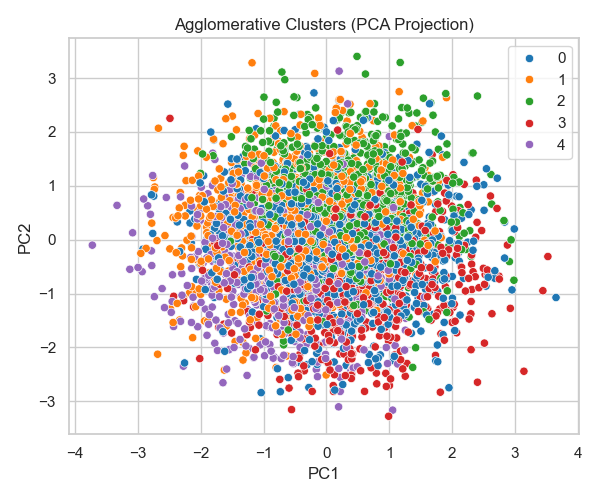
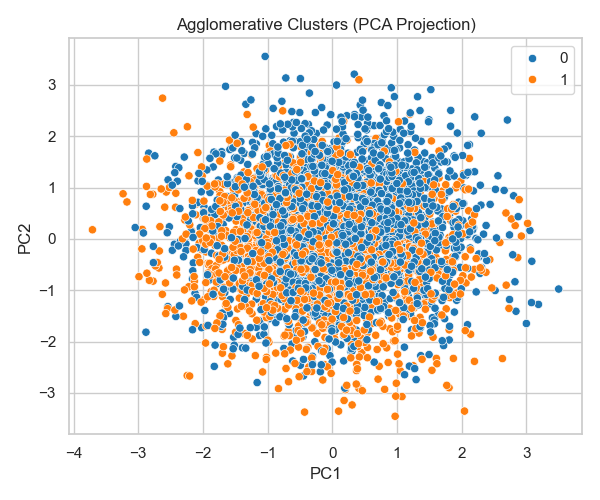
best_k variable was wrong, cluster_data was calling wrong variable, outputs were skewed to make data look perfect

diff --git a/main.py b/main.py
@@ -125,7 +125,7 @@ Evaluate:
 - Compare clusters with meaningful real-world groups if possible
 '''''
 #prepare data for clustering
-cluster_data = numeric_df
+cluster_data = df.select_dtypes(include=["int64", "float64"]).drop(columns=["Defect"])
 #scale the data: 
 scaler = StandardScaler()
 X_scaled = scaler.fit_transform(cluster_data)
@@ -174,7 +174,7 @@ plt.savefig("figures/kmeans_silhouette.png")
 plt.show()
 
 ##KMeans Clustering
-best_k = 5 # choose based on previous analysis of SS and elbow method graph. 
+best_k = 2 # choose based on previous analysis of SS and elbow method graph. 
 
 kmeans = KMeans(n_clusters=best_k, random_state=42)
 kmeans_labels = kmeans.fit_predict(X_scaled)
@@ -206,7 +206,7 @@ print(df.groupby("KMeans_Cluster")["Defect"].mean())
 
 ##Agglomerative Clustering
 #Goal: discover hierarchical process regimes using the same number of clusters (k = 5) for fair comparison with K-Means.
-agglo = AgglomerativeClustering(n_clusters=5, linkage="ward")
+agglo = AgglomerativeClustering(n_clusters=2, linkage="ward")
 agglo_labels = agglo.fit_predict(X_scaled)
 
 #Silhouette Score
@@ -240,6 +240,12 @@ print(df.groupby("Agglo_Cluster")["Defect"].mean())
 #Logistic Regression
 #Random Forest
 #SVM(RBF Kernel)
+'''''
+classification problem: 
+- accuracy, precision, recall, F1-score, ROC-AUC
+'''''
+#define features
+X = df.select_dtypes(include=["int64", "float64"]).drop(columns=["Defect"])
 
 ##5) Hyperparameter Tuning
 '''''
